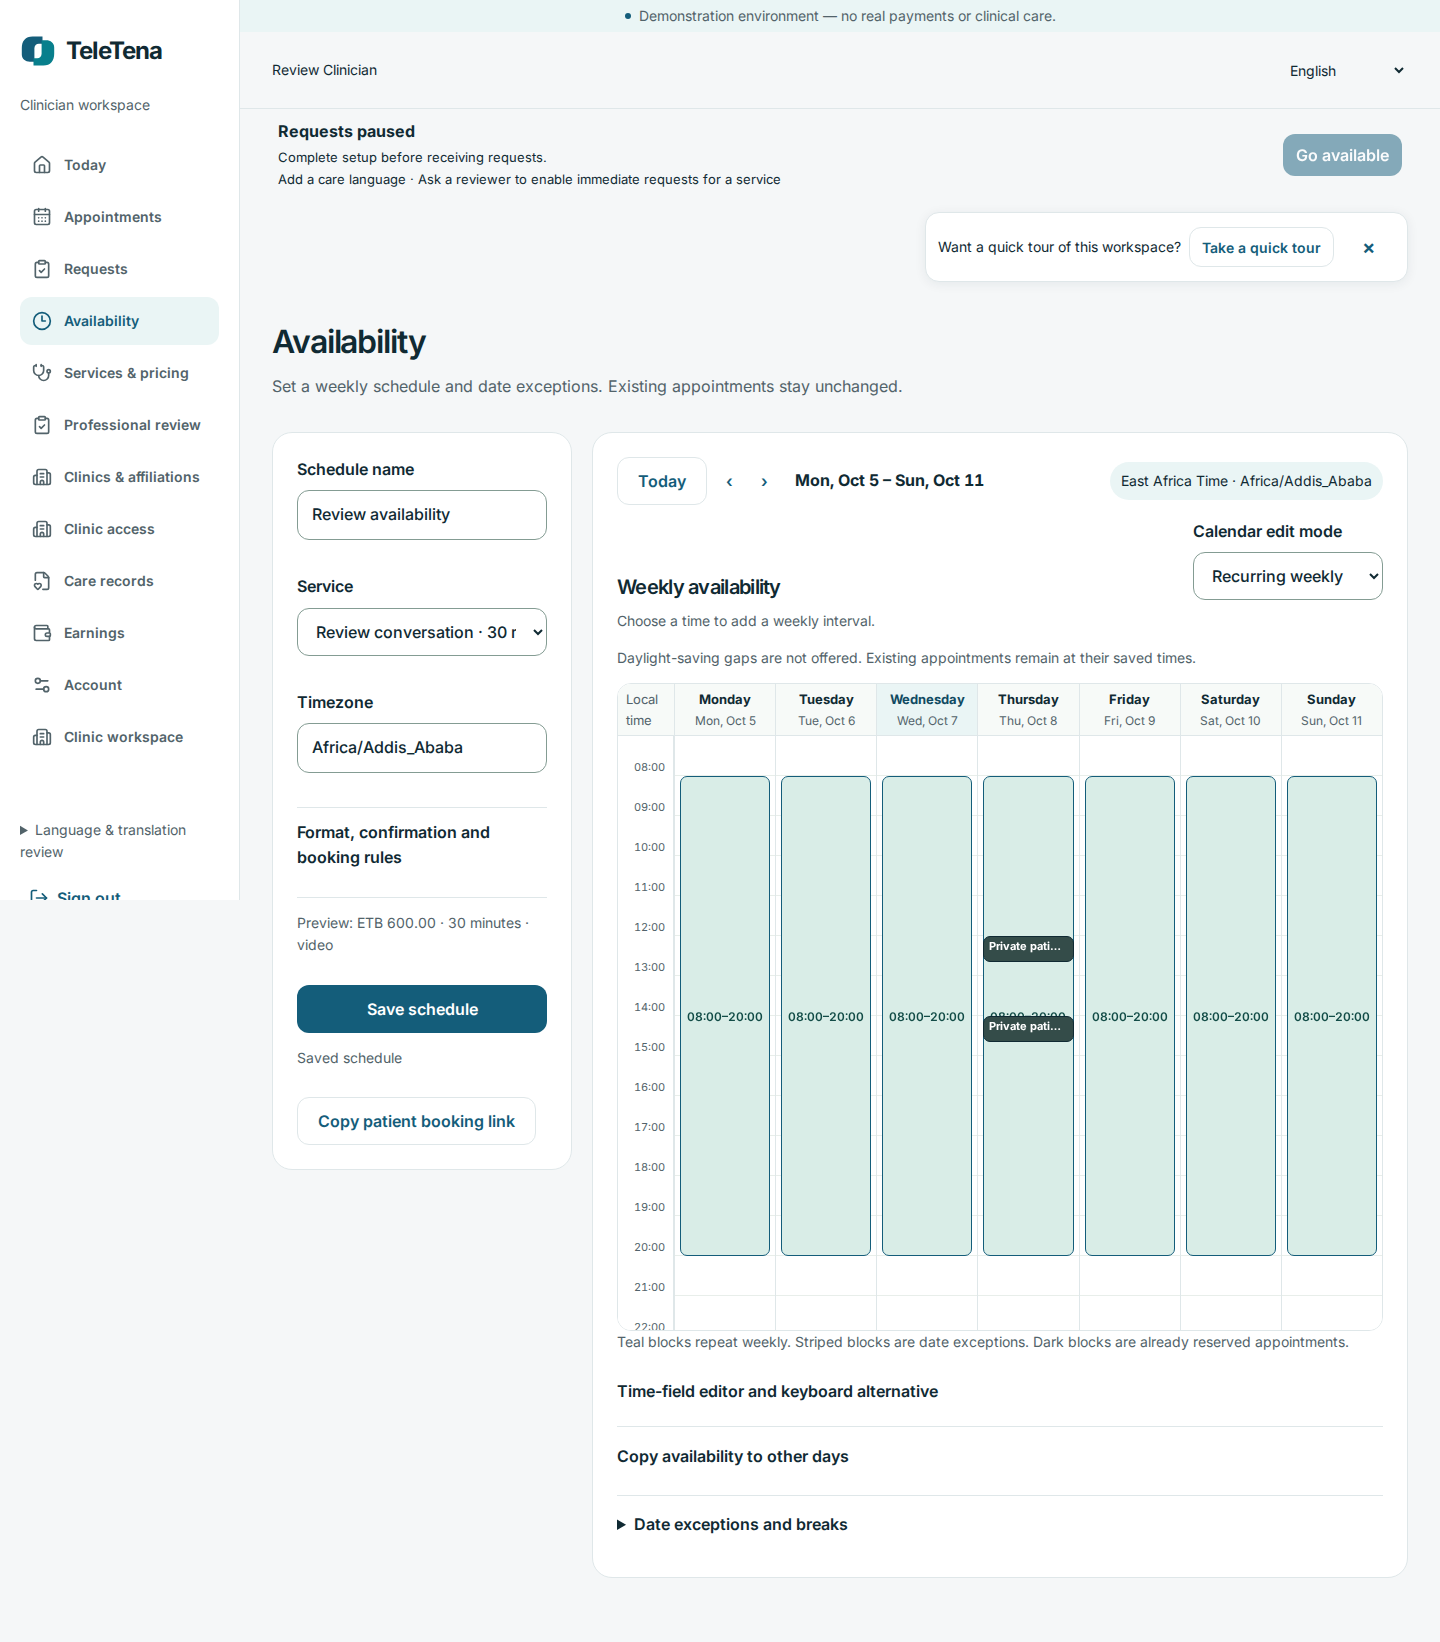
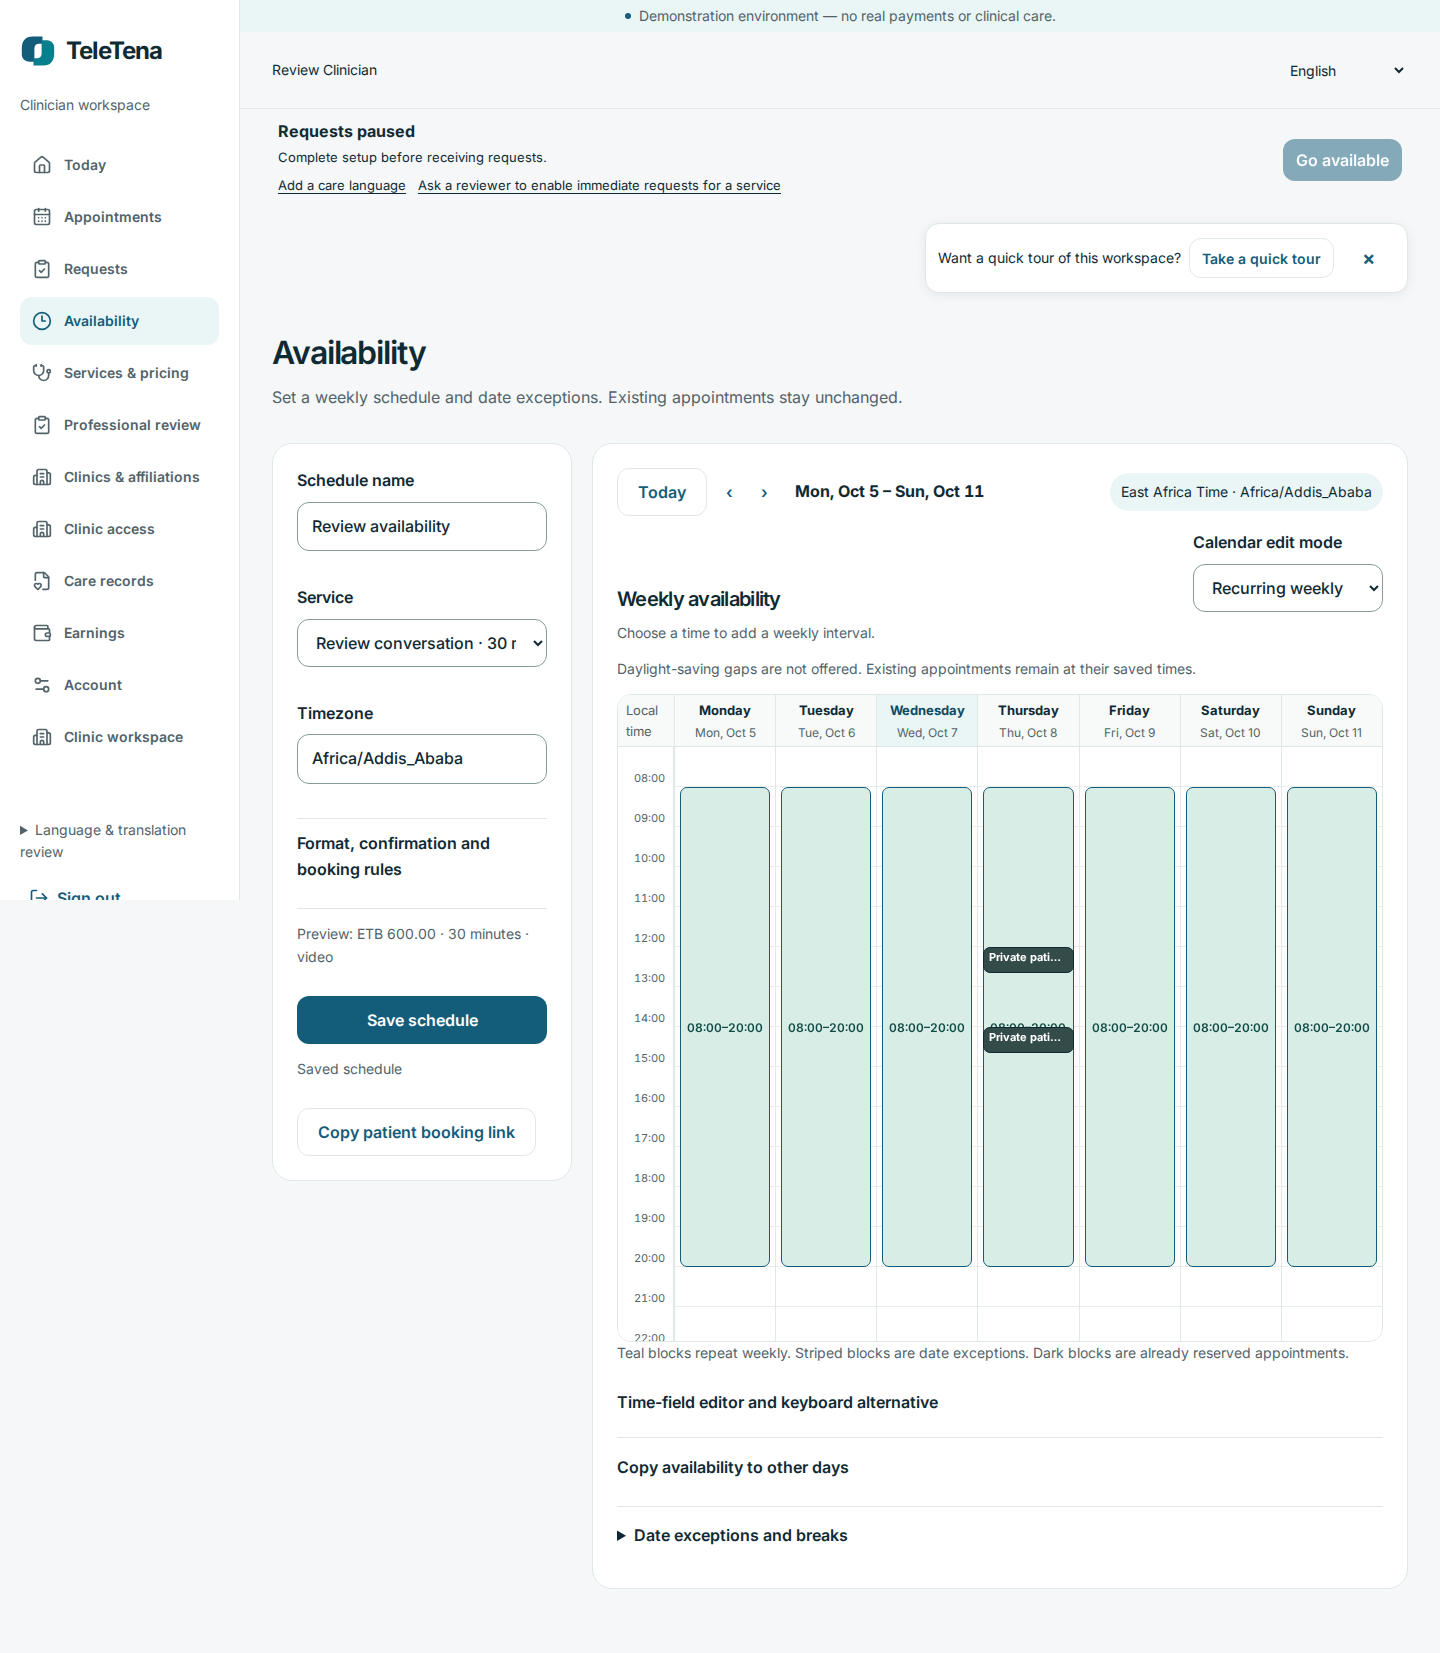
docs: verify availability save and responsive preview

diff --git a/docs/mutual-rescheduling-verification.md b/docs/mutual-rescheduling-verification.md
@@ -57,7 +57,7 @@ patient's authorized timeline.
 
 ## Current integrated local checkpoint
 
-The current branch source is `9eb66d9db6b96367fb17f7f8c53b491735e2dc59`;
+The current branch source is `0660c0ae779e97c374c33553f226a3fbf3359b0f`;
 the running production-built `/teletena/` asset manifest reports that exact
 source SHA. The 390px patient-home screenshot is
 `docs/screenshots/mutual-rescheduling/patient-home-390.png`. A fresh browser
@@ -90,3 +90,20 @@ work interval were visible, there was no horizontal overflow, and no page
 exception occurred. This was a read-only inspection; the existing schedule
 was left unchanged. Screenshot:
 `docs/screenshots/mutual-rescheduling/availability-1440.png`.
+
+The production-route calendar regression also passed against the same URL:
+field-level end-before-start error preserved the entered value; valid Monday
+and Tuesday intervals were posted as `start_local`/`end_local`, saved (HTTP
+200), and retained after reload; the patient booking page returned a
+server-generated slot and completed one booking (HTTP 200). Before the test,
+the clinician's schedule was saved to a private local snapshot and restored
+afterward; the original appointment and balance records were not changed. The
+test's new synthetic patient, deposit and booking were retained as additional
+demonstration records. See `docs/screenshots/availability-regression/` for the
+earlier full journey evidence.
+
+At 390px, the clinician route uses the weekday agenda and time-field editor,
+keeps the calendar grid hidden, and has no horizontal overflow. The editor now
+keeps a sticky Save action reachable on mobile and translates its saving and
+saved states. Screenshot:
+`docs/screenshots/mutual-rescheduling/availability-390.png`.
